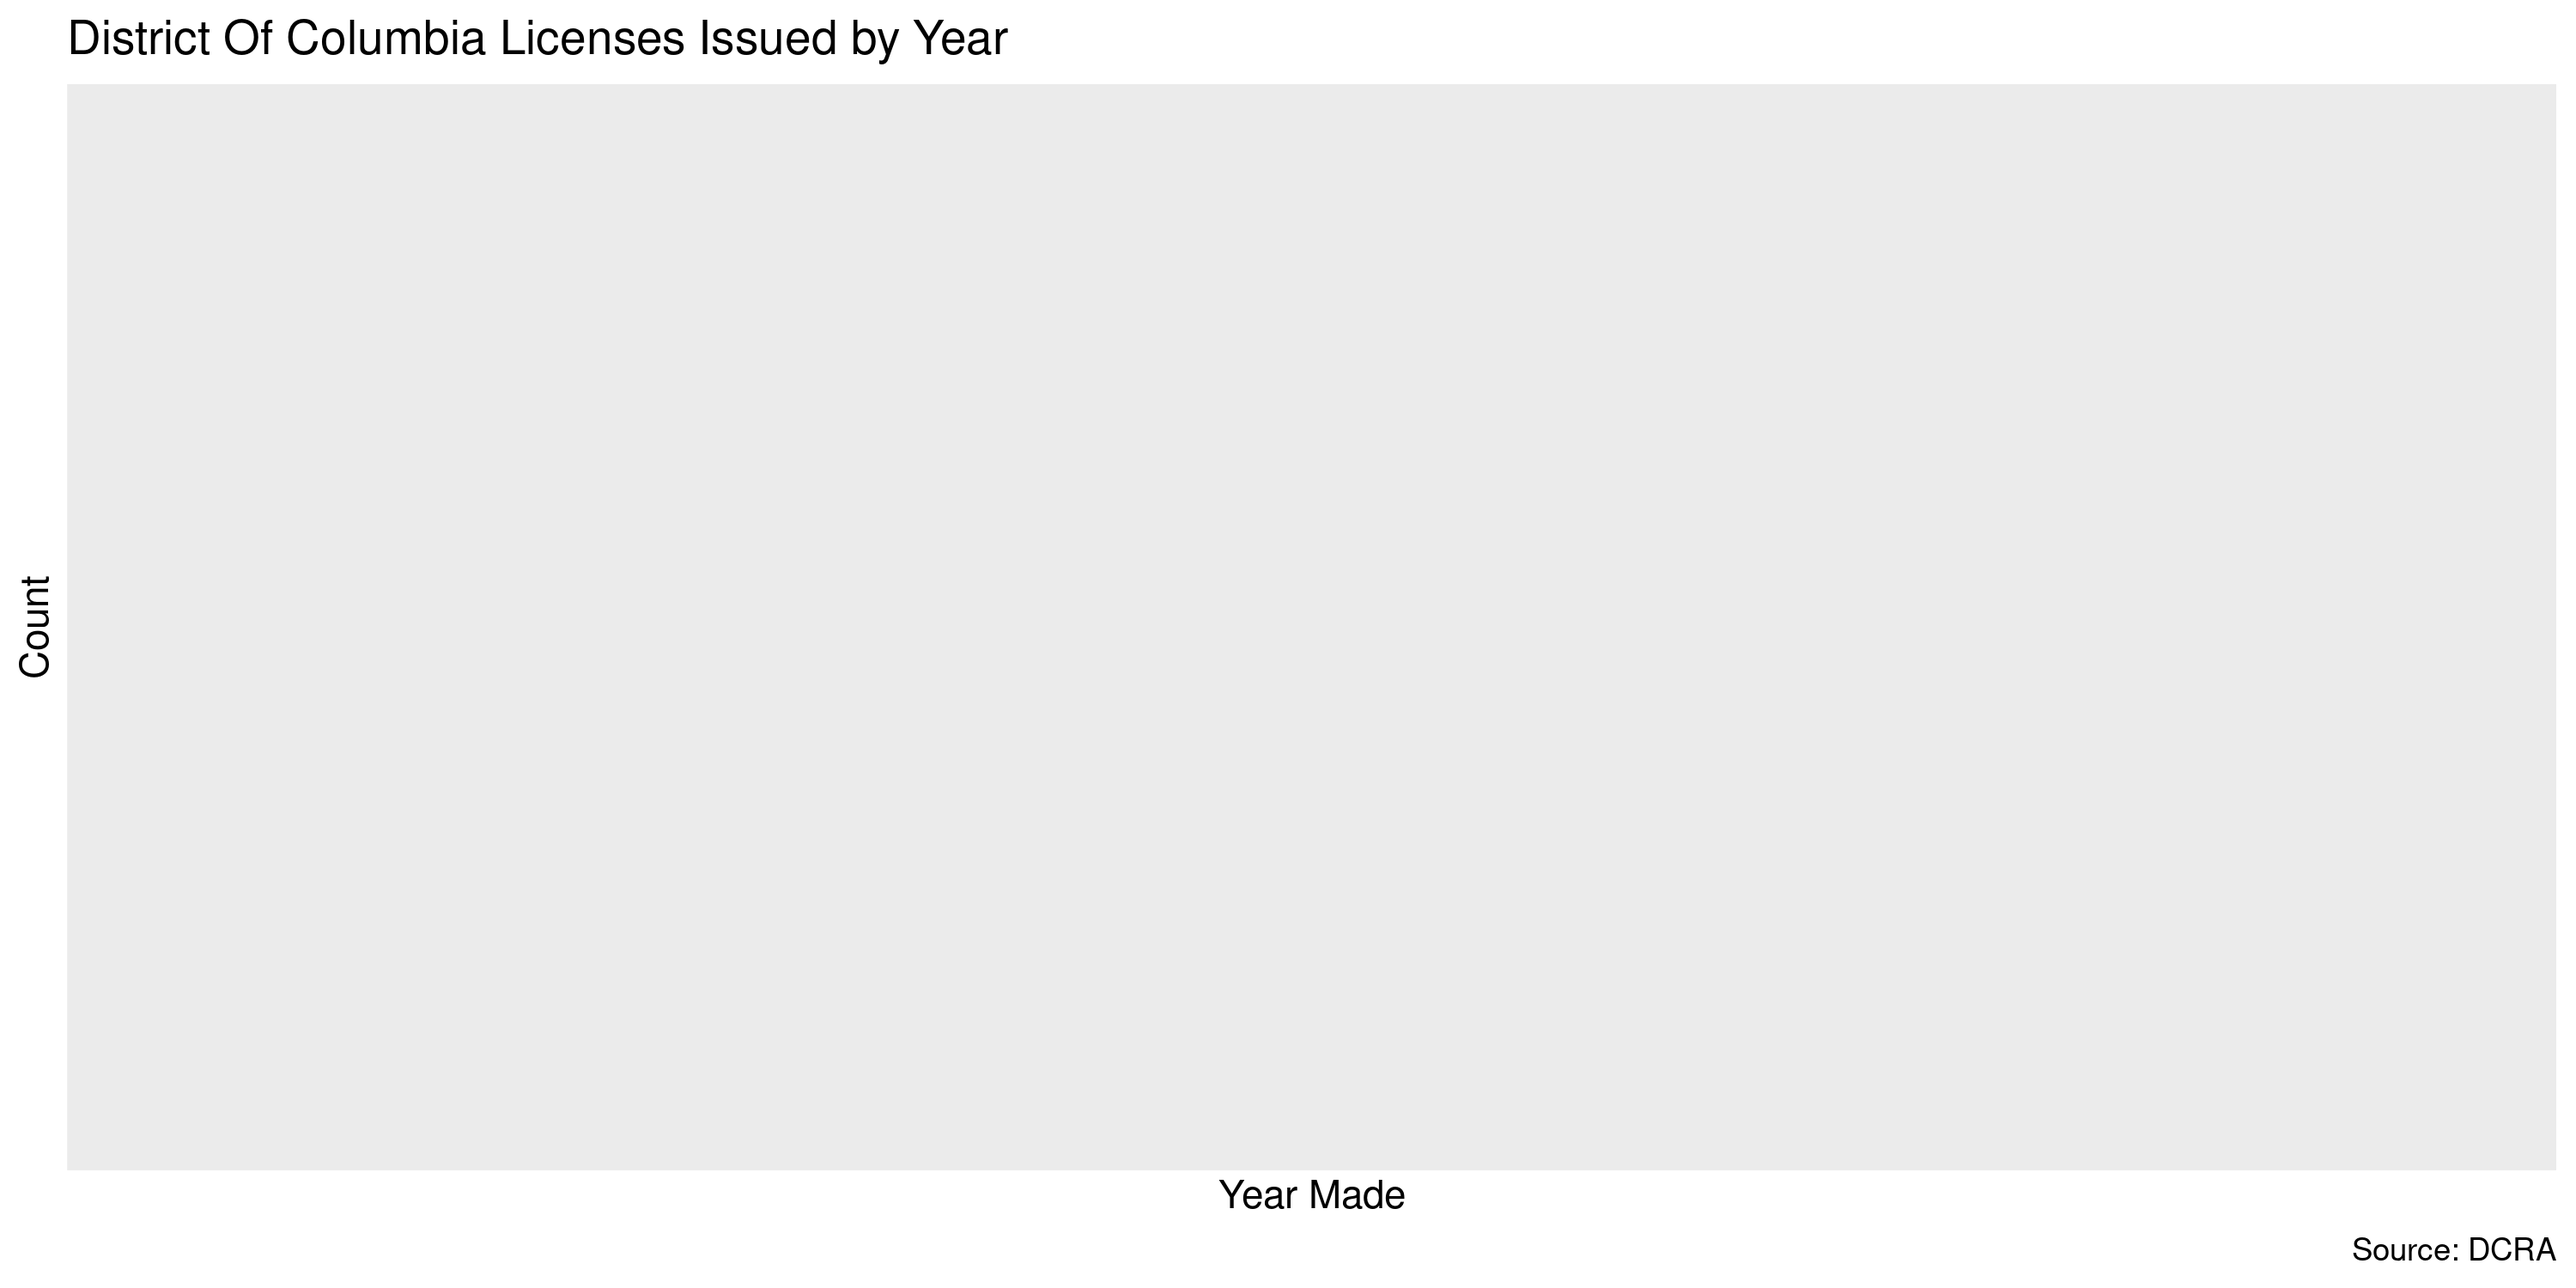
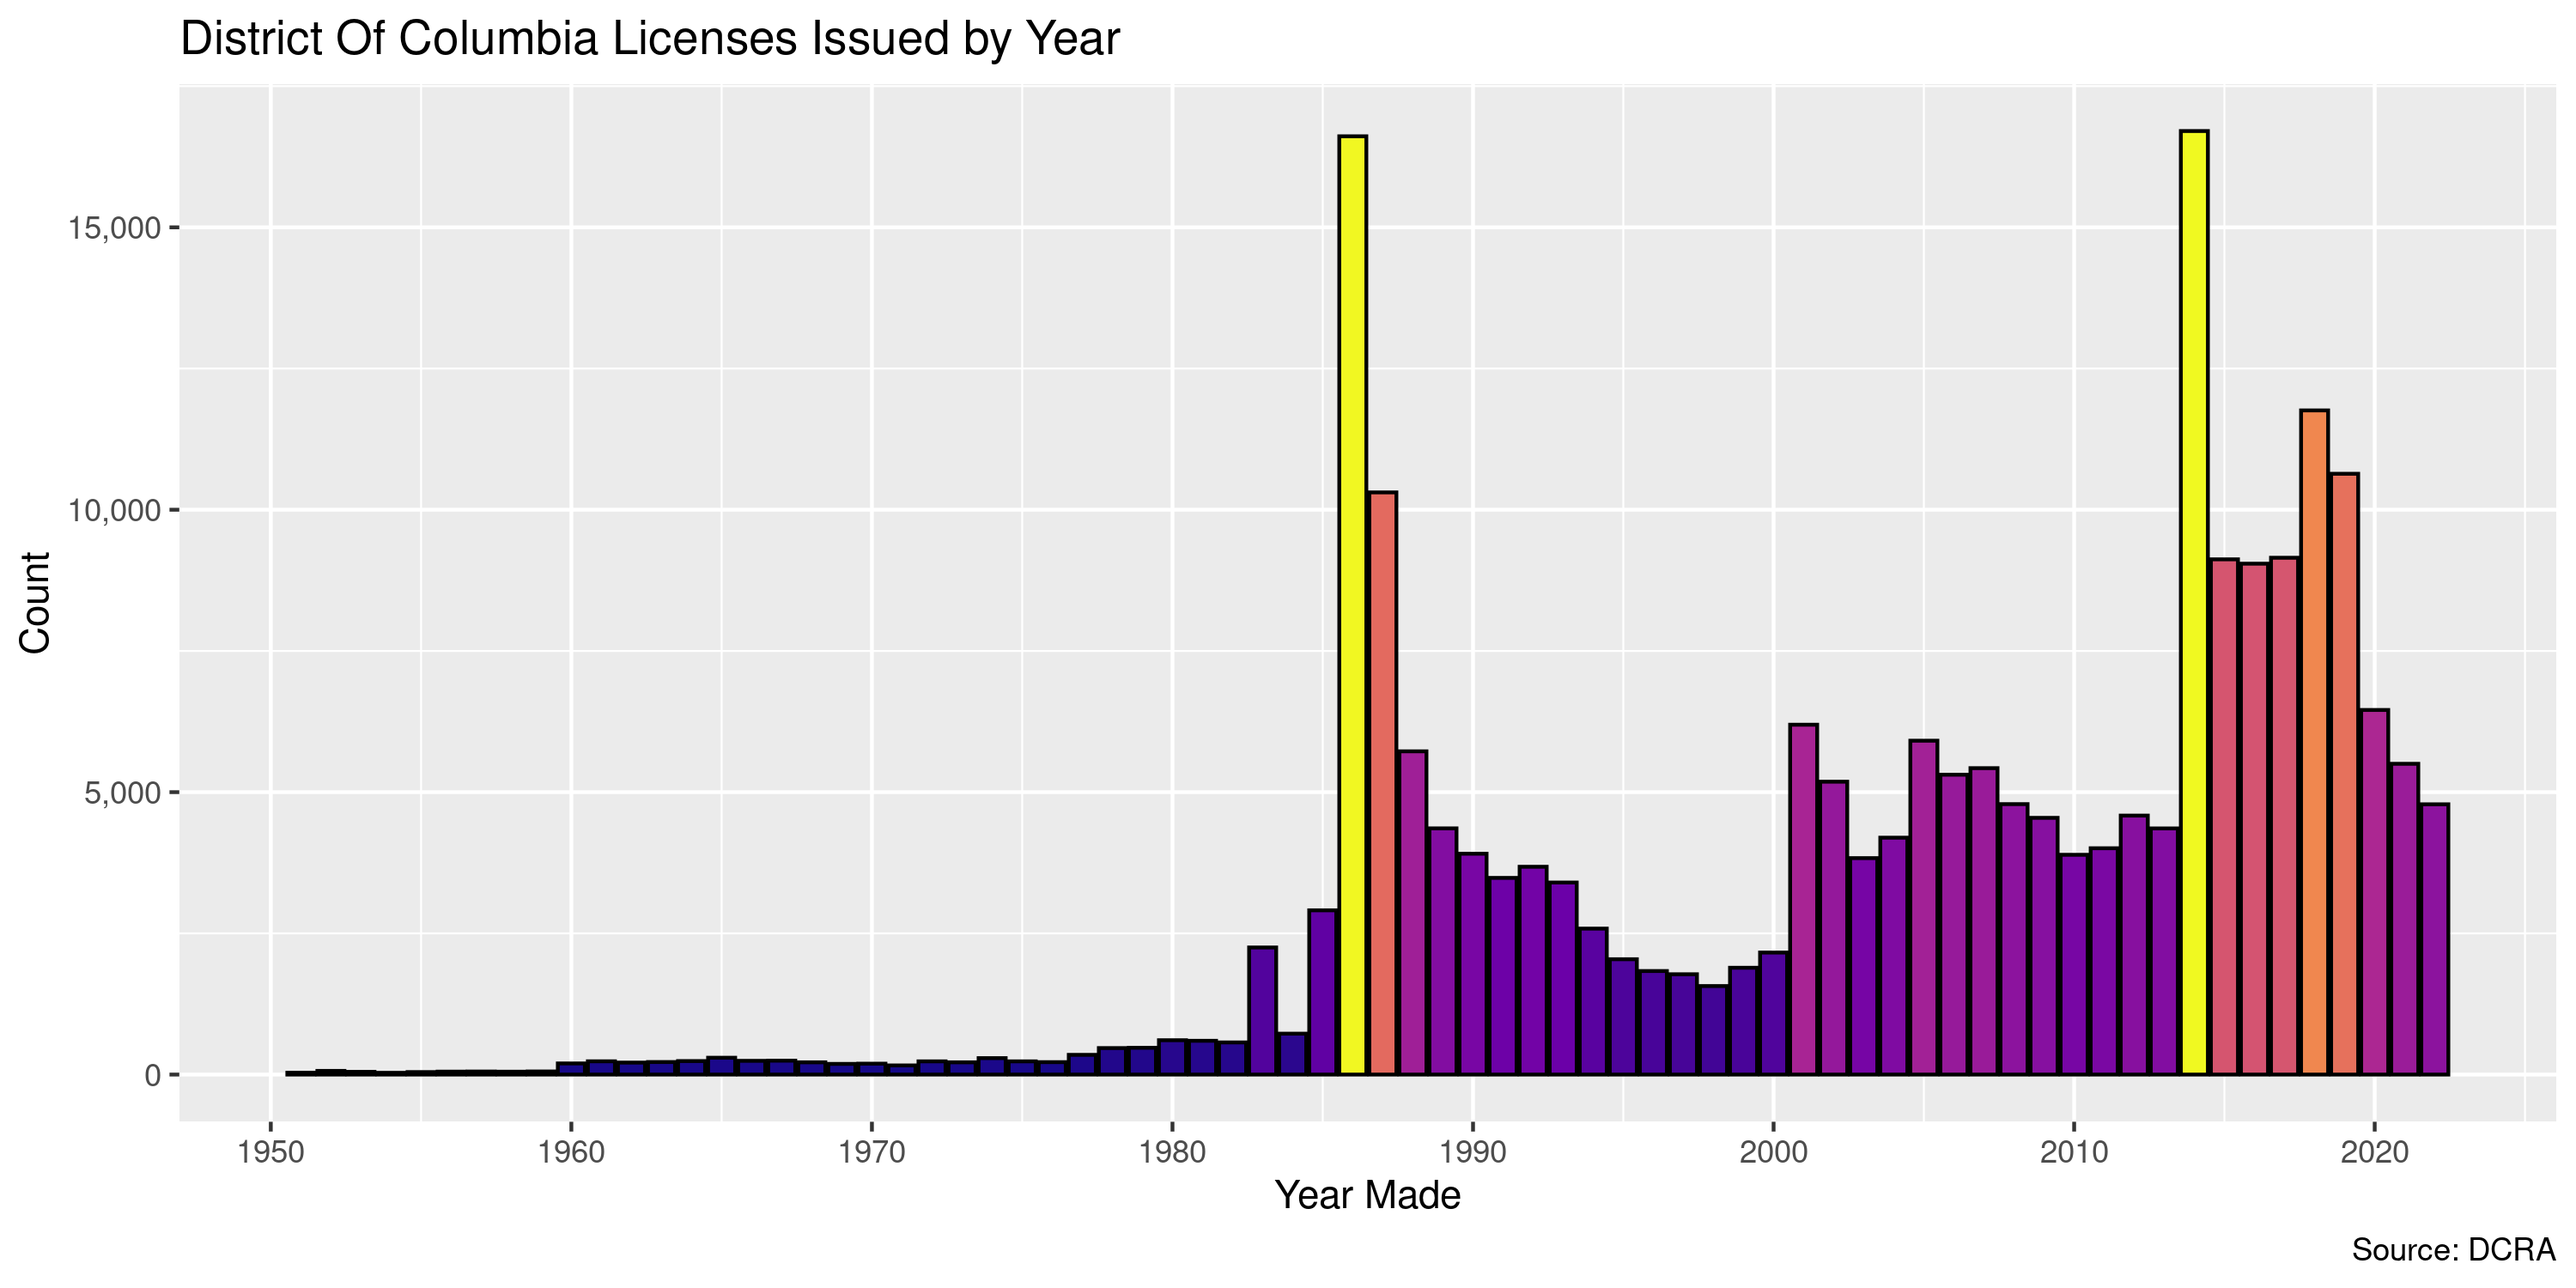
Fix dates in DC licenses

diff --git a/state/dc/licenses/docs/dc_licenses_diary.md b/state/dc/licenses/docs/dc_licenses_diary.md
@@ -1,7 +1,7 @@
 District Of Columbia Licenses
 ================
 Kiernan Nicholls
-Tue May 31 16:58:23 2022
+Tue Jun 14 11:00:29 2022
 
 -   <a href="#project" id="toc-project">Project</a>
 -   <a href="#objectives" id="toc-objectives">Objectives</a>
@@ -156,7 +156,7 @@ if (!file_exists(raw_csv)) {
     escape_backslash = FALSE,
     escape_double = FALSE,
     name_repair = make_clean_names,
-    locale = locale(date_format = "%m/%d/%Y"),
+    # locale = locale(date_format = "%m/%d/%Y"),
     col_types = cols(
       .default = col_character(),
       effective_date = col_date(),
@@ -180,9 +180,9 @@ glimpse(dcl)
 #> $ licensee_name           <chr> "SHENA GREEN", "Weichert Real Estate School", "Security Assurance Management", "Metro …
 #> $ license_type            <chr> "Cosmetology Specialist Operator - Manicurist", "Provider - Real Estate", "Provider - …
 #> $ license_status          <chr> "Expired", "Expired", "Expired", "Expired", "Expired", "Expired", "Expired", "Expired"…
-#> $ effective_date          <date> NA, NA, NA, NA, NA, NA, NA, NA, NA, NA, NA, NA, NA, NA, NA, NA, NA, NA, NA, NA, NA, N…
-#> $ license_expiration_date <date> NA, NA, NA, NA, NA, NA, NA, NA, NA, NA, NA, NA, NA, NA, NA, NA, NA, NA, NA, NA, NA, N…
-#> $ initial_issue_date      <date> NA, NA, NA, NA, NA, NA, NA, NA, NA, NA, NA, NA, NA, NA, NA, NA, NA, NA, NA, NA, NA, N…
+#> $ effective_date          <date> 1900-01-01, 1900-01-01, 1900-01-01, 1900-01-01, 1900-01-01, 1900-01-01, 1900-01-01, 1…
+#> $ license_expiration_date <date> 1900-01-01, 1900-01-01, 1900-01-01, 1900-01-01, 1900-01-01, 1900-01-01, 1900-01-01, 1…
+#> $ initial_issue_date      <date> 1900-01-01, 1900-01-01, 1900-01-01, 1900-01-01, 1900-01-01, 1900-01-01, 1900-01-01, 1…
 #> $ image_name              <chr> "noimage.png", "noimage.png", "noimage.png", "noimage.png", "noimage.png", "noimage.pn…
 #> $ image_url               <chr> "https://govservices.dcra.dc.gov/ProfessionalImages/noimage.png", "https://govservices…
 #> $ affiliated_agency_name  <chr> NA, NA, NA, NA, NA, NA, NA, NA, NA, NA, NA, NA, NA, NA, NA, NA, NA, NA, NA, NA, NA, NA…
@@ -191,12 +191,12 @@ tail(dcl)
 #> # A tibble: 6 × 11
 #>   license_number licensee_name  license_type license_status effective_date license_expirati… initial_issue_d… image_name
 #>   <chr>          <chr>          <chr>        <chr>          <date>         <date>            <date>           <chr>     
-#> 1 WR800257       MATT BOWMAN    Wrestler     Expired        NA             NA                NA               noimage.p…
-#> 2 WR800258       NORA GREENWALD Wrestler     Expired        NA             NA                NA               noimage.p…
-#> 3 WR800259       TERRI POCH     Wrestler     Expired        NA             NA                NA               noimage.p…
-#> 4 WR800260       MONTY SOPP     Wrestler     Expired        NA             NA                NA               noimage.p…
-#> 5 WR800261       KURT ANGLE     Wrestler     Inactive       NA             NA                NA               260951.JP…
-#> 6 WR800262       MARK CALAWAY   Wrestler     Expired        NA             NA                NA               noimage.p…
+#> 1 WR800257       MATT BOWMAN    Wrestler     Expired        2000-03-31     2002-03-31        1930-01-01       noimage.p…
+#> 2 WR800258       NORA GREENWALD Wrestler     Expired        2004-04-01     2006-03-31        1930-01-01       noimage.p…
+#> 3 WR800259       TERRI POCH     Wrestler     Expired        2000-03-31     2002-03-31        1930-01-01       noimage.p…
+#> 4 WR800260       MONTY SOPP     Wrestler     Expired        2004-04-01     2006-03-31        1930-01-01       noimage.p…
+#> 5 WR800261       KURT ANGLE     Wrestler     Inactive       2018-12-03     2020-03-31        2018-12-03       260951.JP…
+#> 6 WR800262       MARK CALAWAY   Wrestler     Expired        2004-04-01     2006-03-31        1930-01-01       noimage.p…
 #> # … with 3 more variables: image_url <chr>, affiliated_agency_name <chr>, data_flag <chr>
 ```
 
@@ -213,9 +213,9 @@ col_stats(dcl, count_na)
 #>  2 licensee_name           <chr>      39 0.000172  
 #>  3 license_type            <chr>       0 0         
 #>  4 license_status          <chr>       1 0.00000440
-#>  5 effective_date          <date> 227116 1         
-#>  6 license_expiration_date <date> 227116 1         
-#>  7 initial_issue_date      <date> 227116 1         
+#>  5 effective_date          <date>      0 0         
+#>  6 license_expiration_date <date>      0 0         
+#>  7 initial_issue_date      <date>      0 0         
 #>  8 image_name              <chr>       0 0         
 #>  9 image_url               <chr>       0 0         
 #> 10 affiliated_agency_name  <chr>  189528 0.834     
@@ -229,30 +229,20 @@ transaction.
 key_vars <- c("initial_issue_date", "licensee_name", "license_type")
 dcl <- flag_na(dcl, all_of(key_vars))
 sum(dcl$na_flag)
-#> [1] 227116
+#> [1] 39
 ```
 
-All 227116 rows missing a `licensee_name` are cosmetology apprentices
-that were originally issued on January 1, 2001. Suspicious.
+All 39 rows missing a `licensee_name` are cosmetology apprentices that
+were originally issued on January 1, 2001. Suspicious.
 
 ``` r
 dcl %>% 
   filter(na_flag) %>% 
   count(initial_issue_date, licensee_name, license_type)
-#> # A tibble: 222,252 × 4
-#>    initial_issue_date licensee_name                   license_type                                      n
-#>    <date>             <chr>                           <chr>                                         <int>
-#>  1 NA                 "- NORRINGTON PATTERSON, SHEIL" Cosmetology Operator                              1
-#>  2 NA                 ". GABRIELLE"                   Real Estate Broker                                1
-#>  3 NA                 ". GABRIELLE"                   Real Estate Salesperson                           1
-#>  4 NA                 ". NIAMAAT"                     Real Estate Broker                                1
-#>  5 NA                 ". NIAMAAT"                     Real Estate Salesperson                           1
-#>  6 NA                 "*LEON CIFUENTES"               Asbestos Worker                                   1
-#>  7 NA                 "\\TAR ELEC CONTR CO"           Electrician Contractor                            1
-#>  8 NA                 "~~ A & M REALTY"               Independent Broker                                1
-#>  9 NA                 "~~ CASTLE FINDERS INC"         Real Estate Broker                                1
-#> 10 NA                 "~~ CHAPMAN"                    Certified Public Accountant - Not to Practice     1
-#> # … with 222,242 more rows
+#> # A tibble: 1 × 4
+#>   initial_issue_date licensee_name license_type               n
+#>   <date>             <chr>         <chr>                  <int>
+#> 1 2001-01-01         <NA>          Cosmetology Apprentice    39
 ```
 
 ### Duplicates
@@ -262,27 +252,27 @@ We can also flag any record completely duplicated across every column.
 ``` r
 dcl <- flag_dupes(dcl, -license_number)
 sum(dcl$dupe_flag)
-#> [1] 4099
+#> [1] 249
 ```
 
 ``` r
 dcl %>% 
   filter(dupe_flag) %>% 
   count(initial_issue_date, licensee_name, license_type, sort = TRUE)
-#> # A tibble: 1,929 × 4
-#>    initial_issue_date licensee_name   license_type                                     n
-#>    <date>             <chr>           <chr>                                        <int>
-#>  1 NA                 <NA>            Cosmetology Apprentice                          39
-#>  2 NA                 UNK             Cosmetology Apprentice                          21
-#>  3 NA                 NU              Cosmetology Apprentice                          16
-#>  4 NA                 ROBERT WILLIAMS Real Estate Salesperson                          7
-#>  5 NA                 JAMES SMITH     Real Estate Salesperson                          6
-#>  6 NA                 UN              Cosmetology Apprentice                           6
-#>  7 NA                 Thi Le          Cosmetology Specialist Operator - Manicurist     5
-#>  8 NA                 Thi Nguyen      Cosmetology Specialist Operator - Manicurist     5
-#>  9 NA                 Thi Tran        Cosmetology Specialist Operator - Manicurist     5
-#> 10 NA                 ANGELA ROBINSON Cosmetology Apprentice                           4
-#> # … with 1,919 more rows
+#> # A tibble: 84 × 4
+#>    initial_issue_date licensee_name             license_type                                     n
+#>    <date>             <chr>                     <chr>                                        <int>
+#>  1 2001-01-01         <NA>                      Cosmetology Apprentice                          38
+#>  2 2001-01-01         UNK                       Cosmetology Apprentice                          21
+#>  3 2001-01-01         NU                        Cosmetology Apprentice                          16
+#>  4 2001-01-01         UN                        Cosmetology Apprentice                           6
+#>  5 1900-01-01         THI NGUYEN                Cosmetology Specialist Operator - Manicurist     4
+#>  6 1997-03-01         LONG & FOSTER RL EST INC. Real Estate Organization                         4
+#>  7 1900-01-01         Thi Le                    Cosmetology Specialist Operator - Manicurist     3
+#>  8 1900-01-01         Thi Nguyen                Cosmetology Specialist Operator - Manicurist     3
+#>  9 1900-01-01         Thi Tran                  Cosmetology Specialist Operator - Manicurist     3
+#> 10 1997-09-24         BEN CARTER HOLDINGS, INC. Real Estate Organization                         3
+#> # … with 74 more rows
 ```
 
 ### Categorical
@@ -296,14 +286,14 @@ col_stats(dcl, n_distinct)
 #>  2 licensee_name           <chr>  197651 0.870     
 #>  3 license_type            <chr>     156 0.000687  
 #>  4 license_status          <chr>      16 0.0000704 
-#>  5 effective_date          <date>      1 0.00000440
-#>  6 license_expiration_date <date>      1 0.00000440
-#>  7 initial_issue_date      <date>      1 0.00000440
+#>  5 effective_date          <date>   8212 0.0362    
+#>  6 license_expiration_date <date>   4120 0.0181    
+#>  7 initial_issue_date      <date>  11846 0.0522    
 #>  8 image_name              <chr>   83931 0.370     
 #>  9 image_url               <chr>   83932 0.370     
 #> 10 affiliated_agency_name  <chr>    3383 0.0149    
 #> 11 data_flag               <chr>       2 0.00000881
-#> 12 na_flag                 <lgl>       1 0.00000440
+#> 12 na_flag                 <lgl>       2 0.00000881
 #> 13 dupe_flag               <lgl>       2 0.00000881
 ```
 
@@ -325,11 +315,11 @@ dcl <- dcl %>%
 
 ``` r
 min(dcl$date_fix, na.rm = TRUE)
-#> [1] NA
+#> [1] "1903-10-01"
 sum(dcl$year_fix < 2000, na.rm = TRUE)
-#> [1] 0
+#> [1] 76871
 max(dcl$date_fix, na.rm = TRUE)
-#> [1] NA
+#> [1] "2022-05-31"
 sum(dcl$date_fix > today(), na.rm = TRUE)
 #> [1] 0
 ```
@@ -346,23 +336,23 @@ glimpse(sample_n(dcl, 1000))
 #> $ licensee_name           <chr> "ETHEL ARMSTRONG", "AMADI Y. KITWANA", "DONNA BRANT", "KRISTIAN MCCRORY", "TERRELL FLO…
 #> $ license_type            <chr> "Interior Design", "Barber Owner", "Real Estate Salesperson", "Cosmetology Operator", …
 #> $ license_status          <chr> "Expired", "Active", "Expired", "Active", "Inactive", "Expired", "Expired", "Active", …
-#> $ effective_date          <date> NA, NA, NA, NA, NA, NA, NA, NA, NA, NA, NA, NA, NA, NA, NA, NA, NA, NA, NA, NA, NA, N…
-#> $ license_expiration_date <date> NA, NA, NA, NA, NA, NA, NA, NA, NA, NA, NA, NA, NA, NA, NA, NA, NA, NA, NA, NA, NA, N…
-#> $ initial_issue_date      <date> NA, NA, NA, NA, NA, NA, NA, NA, NA, NA, NA, NA, NA, NA, NA, NA, NA, NA, NA, NA, NA, N…
+#> $ effective_date          <date> 1992-10-31, 2021-10-01, 2013-08-31, 2022-04-18, 2018-10-01, 2018-05-01, 2001-03-22, 2…
+#> $ license_expiration_date <date> 1994-10-31, 2023-09-30, 2015-08-31, 2024-04-15, 2020-09-30, 2020-04-30, 2001-08-31, 2…
+#> $ initial_issue_date      <date> 1991-10-29, 2016-02-12, 2009-06-01, 2015-11-12, 2012-01-24, 2016-10-18, 2001-03-22, 2…
 #> $ image_name              <chr> "noimage.png", "noimage.png", "noimage.png", "279912.JPEG", "338150.JPEG", "316476.JPE…
 #> $ image_url               <chr> "https://govservices.dcra.dc.gov/ProfessionalImages/noimage.png", "https://govservices…
 #> $ affiliated_agency_name  <chr> NA, NA, NA, NA, NA, NA, NA, NA, NA, NA, NA, NA, NA, NA, NA, NA, NA, "UNIVERSAL PROTECT…
 #> $ data_flag               <chr> "PsiData", "PsiData", "PsiData", "PsiData", "PsiData", "PsiData", "PsiData", "PsiData"…
-#> $ na_flag                 <lgl> TRUE, TRUE, TRUE, TRUE, TRUE, TRUE, TRUE, TRUE, TRUE, TRUE, TRUE, TRUE, TRUE, TRUE, TR…
+#> $ na_flag                 <lgl> FALSE, FALSE, FALSE, FALSE, FALSE, FALSE, FALSE, FALSE, FALSE, FALSE, FALSE, FALSE, FA…
 #> $ dupe_flag               <lgl> FALSE, FALSE, FALSE, FALSE, FALSE, FALSE, FALSE, FALSE, FALSE, FALSE, FALSE, FALSE, FA…
-#> $ date_fix                <date> NA, NA, NA, NA, NA, NA, NA, NA, NA, NA, NA, NA, NA, NA, NA, NA, NA, NA, NA, NA, NA, N…
-#> $ year_fix                <dbl> NA, NA, NA, NA, NA, NA, NA, NA, NA, NA, NA, NA, NA, NA, NA, NA, NA, NA, NA, NA, NA, NA…
+#> $ date_fix                <date> 1991-10-29, 2016-02-12, 2009-06-01, 2015-11-12, 2012-01-24, 2016-10-18, 2001-03-22, 2…
+#> $ year_fix                <dbl> 1991, 2016, 2009, 2015, 2012, 2016, 2001, 2020, 2009, 1986, 2008, 1988, 2007, 2005, 19…
 ```
 
 1.  There are 227,116 records in the database.
-2.  There are 4,099 duplicate records in the database.
+2.  There are 249 duplicate records in the database.
 3.  The range and distribution of `amount` and `date` seem reasonable.
-4.  There are 227,116 records missing key variables.
+4.  There are 39 records missing key variables.
 5.  Consistency in geographic data has been improved with
     `campfin::normal_*()`.
 6.  The 4-digit `year` variable has been created with
@@ -386,7 +376,7 @@ basename(clean_csv)
 write_csv(dcl, clean_csv, na = "")
 write_rds(dcl, clean_rds, compress = "xz")
 (clean_size <- file_size(clean_csv))
-#> 35.8M
+#> 45.5M
 ```
 
 ## Upload
